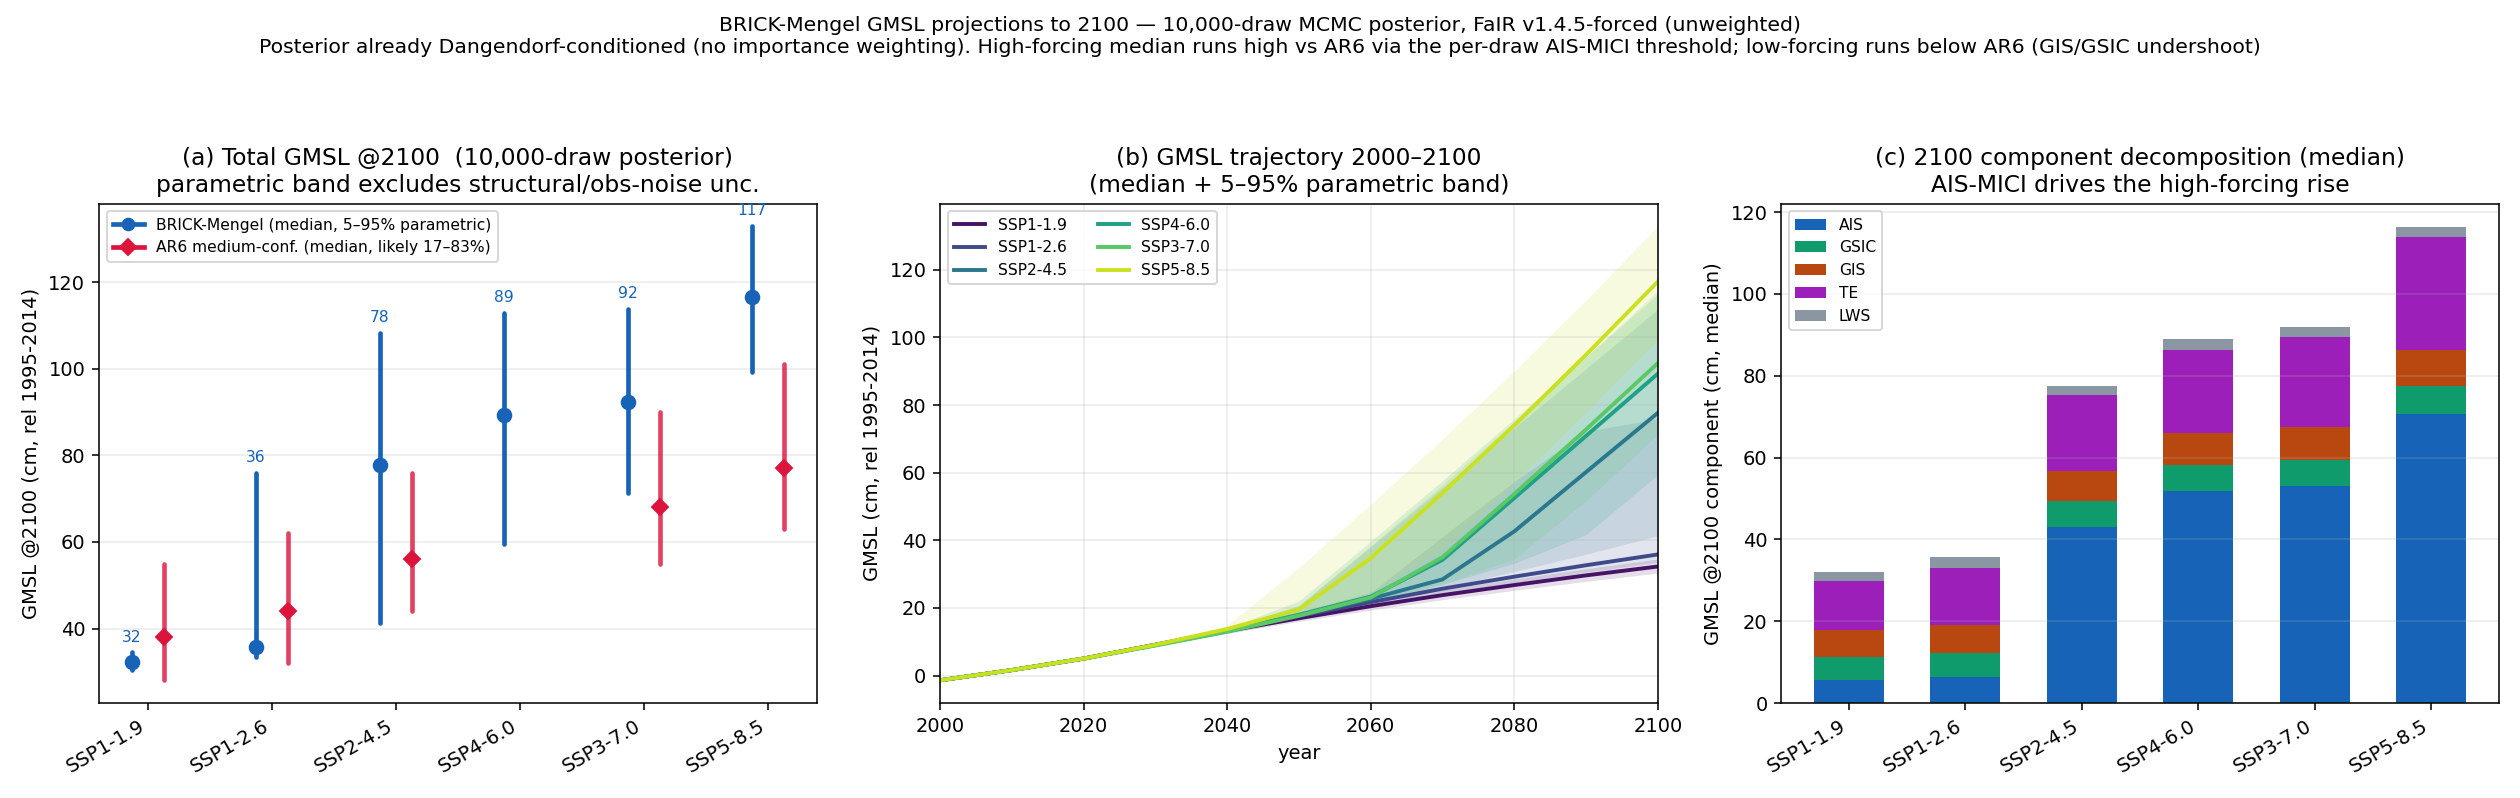
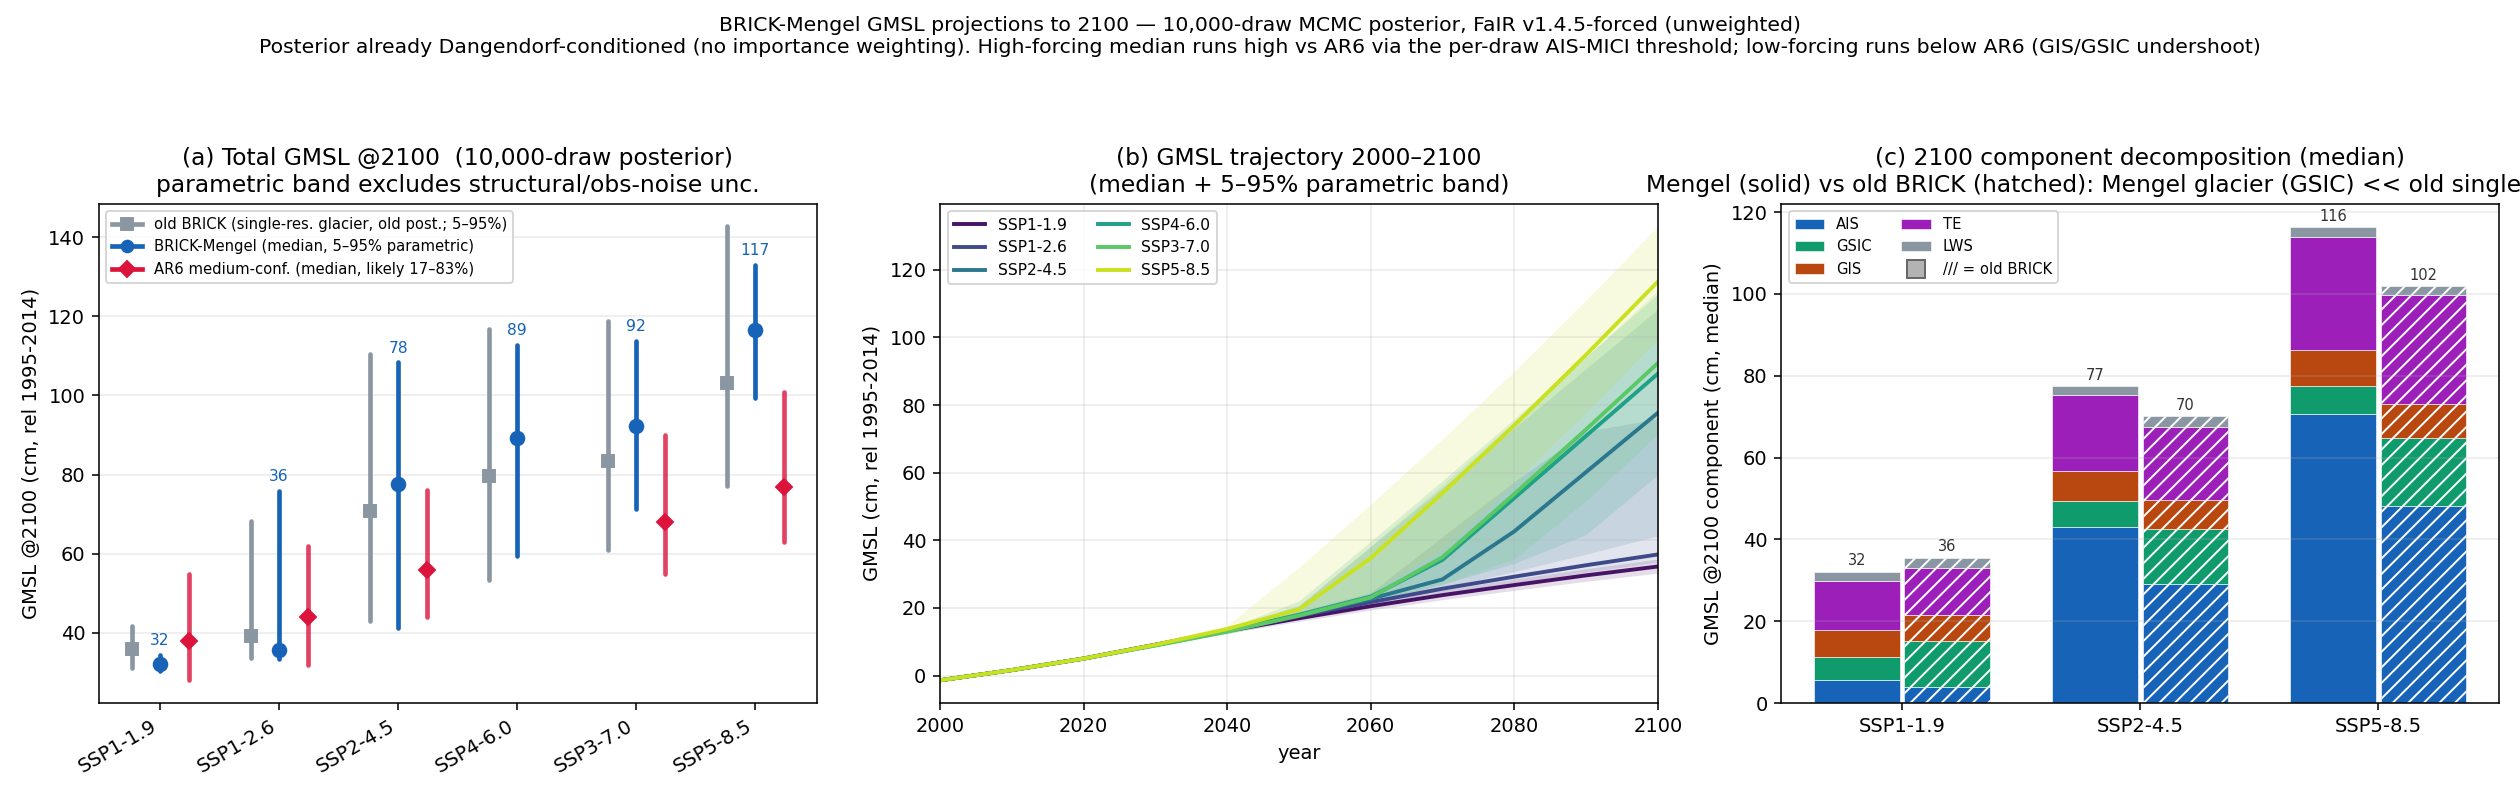
Add old-BRICK comparison to SSP projection figure
Panel (a): old BRICK (stock single-reservoir glacier, old posterior, v2.0.0
unweighted) added as a 3rd marker alongside Mengel + AR6.
Panel (c): restricted to SSP1-1.9/2-4.5/5-8.5, paired Mengel (solid) vs old
BRICK (hatched) stacked components. Headline: Mengel 2-tau glacier projects
~6cm GSIC@2100 vs old single-reservoir ~11-16cm (old over-commits melt). Net:
old BRICK higher at low forcing (glacier), Mengel higher at high forcing (AIS-MICI).

LWS clarified in docstring: NOT calibrated; MimiBRICK v2.0.0 default
landwater_storage component, identical old vs Mengel, climate-independent.

diff --git a/python/plot_ssp_projections_mengel.py b/python/plot_ssp_projections_mengel.py
@@ -8,13 +8,24 @@ calibration and is already Dangendorf-conditioned, so there is ONE unweighted ba
 
 Panels:
   (a) @2100 dot-and-whisker by SSP: BRICK-Mengel median + 5-95% PARAMETRIC band,
-      vs AR6 median + likely (17-83%) range. The AR6 likely range is shown to make
-      explicit that our parametric band (parameter unc. only) is NARROWER than AR6's
-      multi-method range — it excludes structural + obs-noise uncertainty.
+      vs OLD BRICK (stock single-reservoir glacier, old posterior) and vs AR6
+      median + likely (17-83%) range. The AR6 likely range makes explicit that our
+      parametric band (parameter unc. only) is NARROWER than AR6's multi-method
+      range — it excludes structural + obs-noise uncertainty.
   (b) ensemble trajectories 2000-2100 with 5-95% bands.
-  (c) 2100 component decomposition (median, cm) stacked by SSP.
+  (c) 2100 component decomposition (median, cm) for SSP1-1.9 / SSP2-4.5 / SSP5-8.5,
+      paired Mengel vs OLD BRICK. Headline: the Mengel 2-tau glacier projects far
+      LESS glacier (GSIC) loss than the old single-reservoir model (which over-
+      commits melt) — ~6 cm vs ~11-16 cm @2100.
 
-Inputs: outputs/proj_ssps_mengel_{summary,timeseries}.csv (cm, rel 1995-2014).
+LWS note: the landwater_storage contribution is NOT calibrated here — it is the
+MimiBRICK v2.0.0 default component (net groundwater depletion - reservoir
+impoundment), identical between old BRICK and Mengel, ~2.3-2.9 cm and climate-
+independent.
+
+Inputs: outputs/proj_ssps_mengel_{summary,timeseries}.csv (Mengel posterior),
+        outputs/proj_ssps_ensemble_summary.csv (old BRICK, v2.0.0 unweighted).
+        All cm, rel 1995-2014.
 Output: outputs/ssp_projections_2100_mengel.png
 """
 import os
@@ -28,6 +39,9 @@ import matplotlib.lines as ml
 REPO = os.path.expanduser("~/Documents/2026/CodeProjects/SLR-RFF-BRICK")
 S = pd.read_csv(os.path.join(REPO, "outputs/proj_ssps_mengel_summary.csv"))
 T = pd.read_csv(os.path.join(REPO, "outputs/proj_ssps_mengel_timeseries.csv"))
+# OLD BRICK (stock single-reservoir glacier, old posterior): v2.0.0 unweighted rows
+O = pd.read_csv(os.path.join(REPO, "outputs/proj_ssps_ensemble_summary.csv"))
+O = O[(O.calib == "v2.0.0") & (O.weighting == "unweighted")]
 OUT = os.path.join(REPO, "outputs/ssp_projections_2100_mengel.png")
 NDRAWS = pd.read_csv(os.path.join(REPO, "data/MimiBRICK/parameters_subsample_brick_mengel.csv")).shape[0]
 
@@ -38,25 +52,32 @@ AR6 = {"SSP1-1.9": (38, 28, 55), "SSP1-2.6": (44, 32, 62), "SSP2-4.5": (56, 44, 
        "SSP3-7.0": (68, 55, 90), "SSP5-8.5": (77, 63, 101)}
 
 def get(ssp): return S[S.ssp_label == ssp].iloc[0]
+def getold(ssp): return O[O.ssp_label == ssp].iloc[0]
 
 fig, (axa, axb, axc) = plt.subplots(1, 3, figsize=(18, 5.7))
 x = np.arange(len(ORDER))
-BLUE, RED = "#1763b8", "crimson"
+BLUE, RED, GREY = "#1763b8", "crimson", "#8a97a3"
 
-# ---- (a) dot-and-whisker @2100: BRICK-Mengel vs AR6 ----
+# ---- (a) dot-and-whisker @2100: OLD BRICK vs BRICK-Mengel vs AR6 ----
 for s in ORDER:
-    xi = ORDER.index(s); r = get(s)
-    axa.plot([xi-0.13]*2, [r.p05, r.p95], color=BLUE, lw=2.4, solid_capstyle="round", zorder=2)
-    axa.plot(xi-0.13, r.p50, "o", color=BLUE, ms=7, zorder=3)
-    axa.text(xi-0.13, r.p95 + 2.5, f"{r.p50:.0f}", ha="center", fontsize=8, color=BLUE)
+    xi = ORDER.index(s); r = get(s); o = getold(s)
+    # old BRICK (grey, left)
+    axa.plot([xi-0.24]*2, [o.p05, o.p95], color=GREY, lw=2.4, solid_capstyle="round", zorder=2)
+    axa.plot(xi-0.24, o.p50, "s", color=GREY, ms=6, zorder=3)
+    # BRICK-Mengel (blue, center)
+    axa.plot([xi]*2, [r.p05, r.p95], color=BLUE, lw=2.4, solid_capstyle="round", zorder=2)
+    axa.plot(xi, r.p50, "o", color=BLUE, ms=7, zorder=3)
+    axa.text(xi, r.p95 + 2.5, f"{r.p50:.0f}", ha="center", fontsize=8, color=BLUE)
+    # AR6 (red, right)
     if s in AR6:
         med, lo, hi = AR6[s]
-        axa.plot([xi+0.13]*2, [lo, hi], color=RED, lw=2.4, solid_capstyle="round", zorder=2, alpha=0.8)
-        axa.plot(xi+0.13, med, "D", color=RED, ms=6, zorder=3)
+        axa.plot([xi+0.24]*2, [lo, hi], color=RED, lw=2.4, solid_capstyle="round", zorder=2, alpha=0.8)
+        axa.plot(xi+0.24, med, "D", color=RED, ms=6, zorder=3)
 axa.legend(handles=[
+    ml.Line2D([], [], color=GREY, marker="s", lw=2.4, label="old BRICK (single-res. glacier, old post.; 5–95%)"),
     ml.Line2D([], [], color=BLUE, marker="o", lw=2.4, label="BRICK-Mengel (median, 5–95% parametric)"),
     ml.Line2D([], [], color=RED, marker="D", lw=2.4, label="AR6 medium-conf. (median, likely 17–83%)"),
-], fontsize=8, loc="upper left")
+], fontsize=7.6, loc="upper left")
 axa.set_xticks(x); axa.set_xticklabels(ORDER, rotation=30, ha="right")
 axa.set_ylabel("GMSL @2100 (cm, rel 1995-2014)")
 axa.set_title(f"(a) Total GMSL @2100  ({NDRAWS:,}-draw posterior)\nparametric band excludes structural/obs-noise unc.")
@@ -71,18 +92,32 @@ axb.set_title("(b) GMSL trajectory 2000–2100\n(median + 5–95% parametric ban
 axb.set_xlabel("year"); axb.set_ylabel("GMSL (cm, rel 1995-2014)")
 axb.set_xlim(2000, 2100); axb.legend(fontsize=8, ncol=2); axb.grid(alpha=0.25)
 
-# ---- (c) 2100 component decomposition (median, cm) ----
+# ---- (c) 2100 component decomposition (median): Mengel vs OLD BRICK, 3 scenarios ----
+SEL = ["SSP1-1.9", "SSP2-4.5", "SSP5-8.5"]
 comps = [("ais", "AIS", "#1763b8"), ("gsic", "GSIC", "#0f9b6c"), ("gis", "GIS", "#b8480f"),
          ("te", "TE", "#9b1fb8"), ("lws", "LWS", "#8a97a3")]
-bottom = np.zeros(len(ORDER))
-for key, lab, c in comps:
-    vals = np.array([get(s)[key] for s in ORDER])
-    axc.bar(x, vals, 0.6, bottom=bottom, color=c, label=lab)
-    bottom += vals
-axc.set_xticks(x); axc.set_xticklabels(ORDER, rotation=30, ha="right")
+xc = np.arange(len(SEL)); bw = 0.36
+for off, src, tag in [(-bw/2-0.01, get, "Mengel"), (+bw/2+0.01, getold, "old")]:
+    bottom = np.zeros(len(SEL))
+    for key, lab, c in comps:
+        vals = np.array([src(s)[key] for s in SEL])
+        axc.bar(xc + off, vals, bw, bottom=bottom, color=c,
+                label=lab if tag == "Mengel" else None,
+                hatch=("" if tag == "Mengel" else "///"), edgecolor="white", linewidth=0.3)
+        bottom += vals
+    for i, s in enumerate(SEL):
+        tot = sum(src(s)[k] for k, _, _ in comps)
+        axc.text(xc[i] + off, tot + 1.5, f"{tot:.0f}", ha="center", fontsize=7.5, color="0.2")
+axc.set_xticks(xc); axc.set_xticklabels(SEL)
 axc.set_ylabel("GMSL @2100 component (cm, median)")
-axc.set_title("(c) 2100 component decomposition (median)\nAIS-MICI drives the high-forcing rise")
-axc.legend(fontsize=8, loc="upper left"); axc.grid(axis="y", alpha=0.25)
+axc.set_title("(c) 2100 component decomposition (median)\nMengel (solid) vs old BRICK (hatched): "
+              "Mengel glacier (GSIC) << old single-reservoir")
+# component legend + a hatched proxy explaining old BRICK
+handles, labels = axc.get_legend_handles_labels()
+handles.append(ml.Line2D([], [], color="0.4", marker="s", lw=0, markersize=9,
+                         markerfacecolor="0.7", label="/// = old BRICK"))
+axc.legend(handles=handles, fontsize=7.6, loc="upper left", ncol=2)
+axc.grid(axis="y", alpha=0.25)
 
 fig.suptitle(f"BRICK-Mengel GMSL projections to 2100 — {NDRAWS:,}-draw MCMC posterior, FaIR v1.4.5-forced (unweighted)\n"
              "Posterior already Dangendorf-conditioned (no importance weighting). High-forcing median runs high vs "
